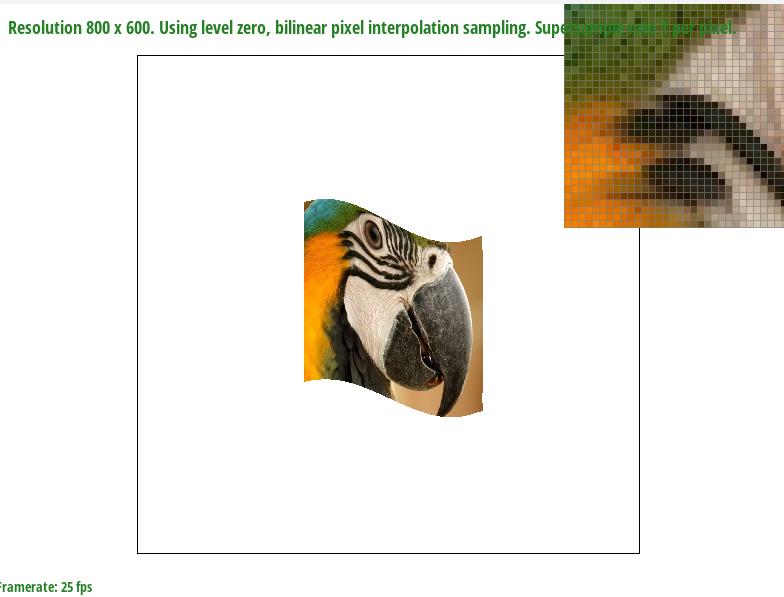
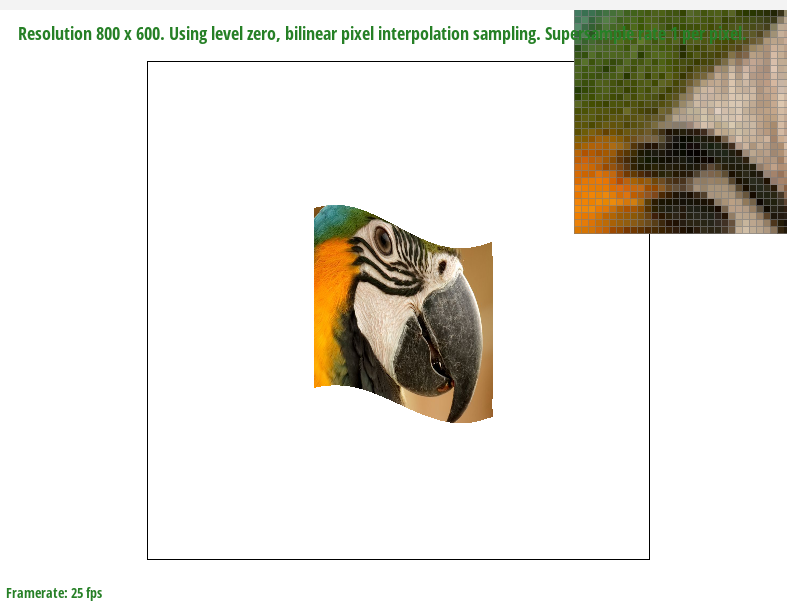
retook part5 screenshots

Changed region(s): [[0.0, 0.0, 1.0, 0.9347], [0.3673, 0.3317, 0.6429, 0.7236], [0.0, 0.9648, 0.1224, 0.995]]

diff --git a/proj1/index.html b/proj1/index.html
@@ -115,7 +115,9 @@
   the same barycentric coordinates and the vertices of the texture space triangle. Once we had the corresponding point in texture space, we used either nearest or bilinear pixel sampling to map the color onto the screen. Nearest pixel sampling
   works by rounding the coordinates (x, y) to the nearest pixel. On the other hand, bilinear pixel sampling
   finds and utilizes the nearest four pixels relative to (x, y). It computes a weighted sum on those four pixels by 
-  performing two instances of linear interpolation.
+  performing two instances of linear interpolation. In the images below, you can see that bilinear sampling does a better job of blending the colors along the edges.
+  There will be a more noticeable difference between the two methods when encountering high frequencies. Nearest pixel sampling will have sharper edges, whereas bilinear pixel sampling 
+  will have edges that are more smoothed out because it computes color using four distinct pixels rather than one.
 </p>
 
 <div align="middle">
